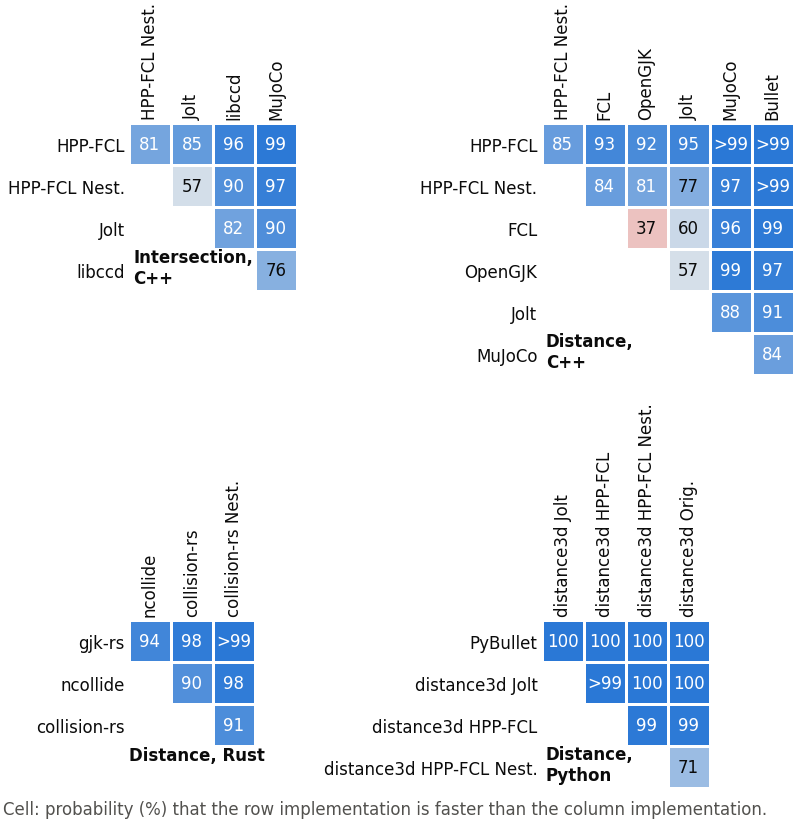
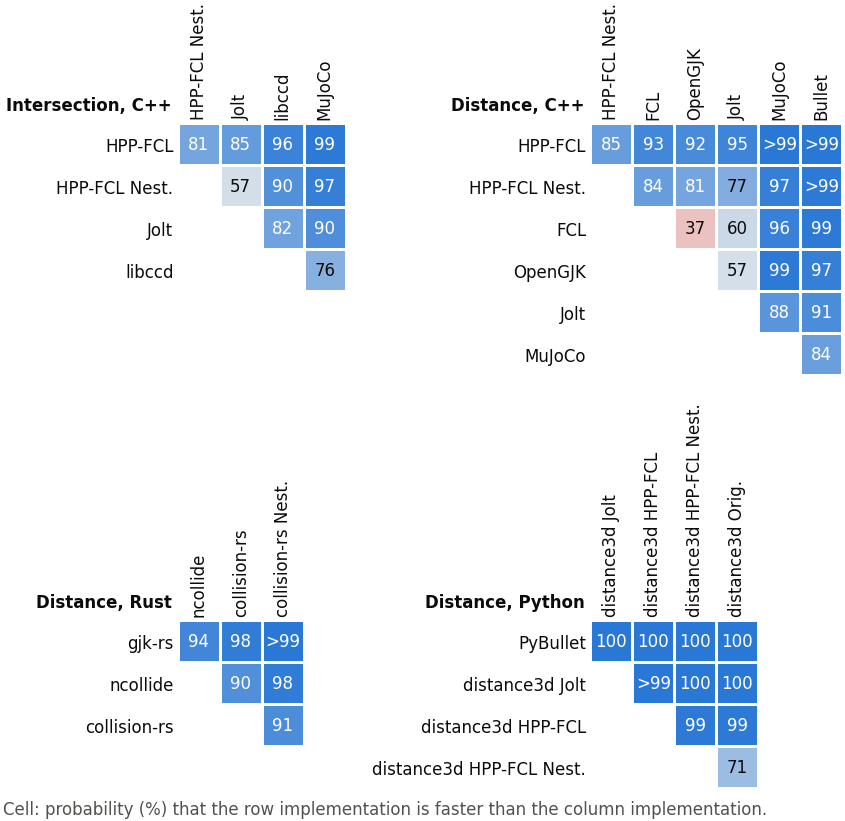
Improve title placement in PI plot

diff --git a/compare-python/analyze/figures.py b/compare-python/analyze/figures.py
@@ -327,7 +327,7 @@ def probability_heatmaps(matrices, path):
     comparisons.probability_of_improvement_matrices()).
 
     Implementations are sorted from fast to slow, and only the upper triangle is shown: the lower triangle is
-    redundant, P(T_column < T_row) = 1 - P(T_row < T_column). The panel title is placed in the empty lower triangle.
+    redundant, P(T_column < T_row) = 1 - P(T_row < T_column). The panel title is placed above the row labels.
     Panels are placed in inches, so that all cells have the same size, with margins for the row labels (left) and the
     vertical column labels (top) of each panel."""
     if not matrices:
@@ -337,10 +337,12 @@ def probability_heatmaps(matrices, path):
     n_cols = min(2, len(panels))
     n_rows = int(np.ceil(len(panels) / n_cols))
     sizes, lefts, tops = np.zeros((n_rows, n_cols)), np.zeros((n_rows, n_cols)), np.zeros((n_rows, n_cols))
-    for k, (_, matrix) in enumerate(panels):
+    for k, ((category, language), matrix) in enumerate(panels):
         r, c = divmod(k, n_cols)
         sizes[r, c] = len(matrix) - 1
-        lefts[r, c] = max(_text_width(label) for label in matrix.index[:-1]) + 0.08
+        # the left margin holds the row labels and the title (top left corner)
+        lefts[r, c] = max([_text_width(label) for label in matrix.index[:-1]]
+                          + [_text_width(f"{category}, {language}", weight="bold")]) + 0.08
         tops[r, c] = max(_text_width(label) for label in matrix.columns[1:]) + 0.08
     left, top = lefts.max(axis=0), tops.max(axis=1)
     widths, heights = left + cell * sizes.max(axis=0) + gap, top + cell * sizes.max(axis=1) + gap
@@ -370,11 +372,9 @@ def probability_heatmaps(matrices, path):
             ax.set_yticks(np.arange(n) + 0.5, matrix.index[:-1])
             ax.tick_params(axis="both", length=0, labelcolor=TEXT, pad=2)
             ax.spines["bottom"].set_visible(False)
-            if n >= 4:
-                ax.text(0.1, n - 0.1, f"{category},\n{language}", ha="left", va="bottom", fontweight="bold",
-                        color=TEXT)
-            else:
-                ax.set_title(f"{category}, {language}", y=-0.1, va="top")
+            # title in the top left corner of the heatmap: above the row labels, left of the column labels
+            fig.text((x0 - 0.04) / fig_width, (y0 + cell * n + 0.06) / fig_height,
+                     f"{category}, {language}", ha="right", va="bottom", fontweight="bold", color=TEXT)
         fig.text(0.0, 0.0, "Cell: probability (%) that the row implementation is faster than the column implementation.",
                  color=TEXT_SECONDARY, va="bottom")
         _save(fig, path)
